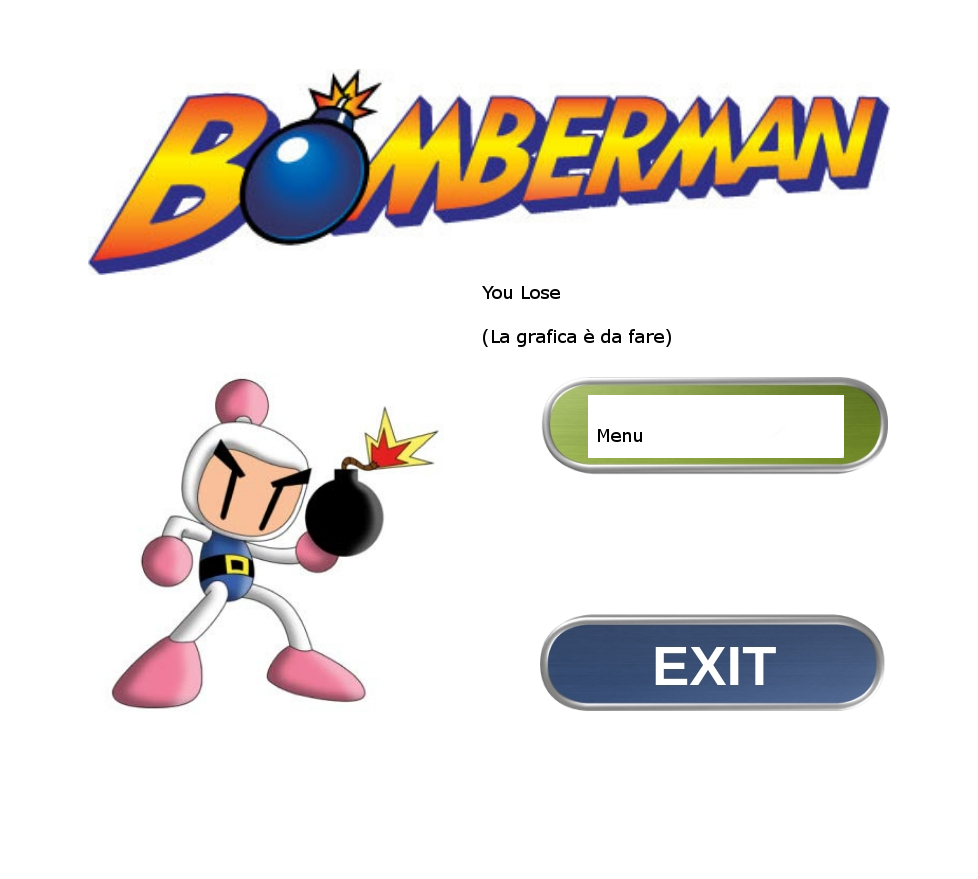
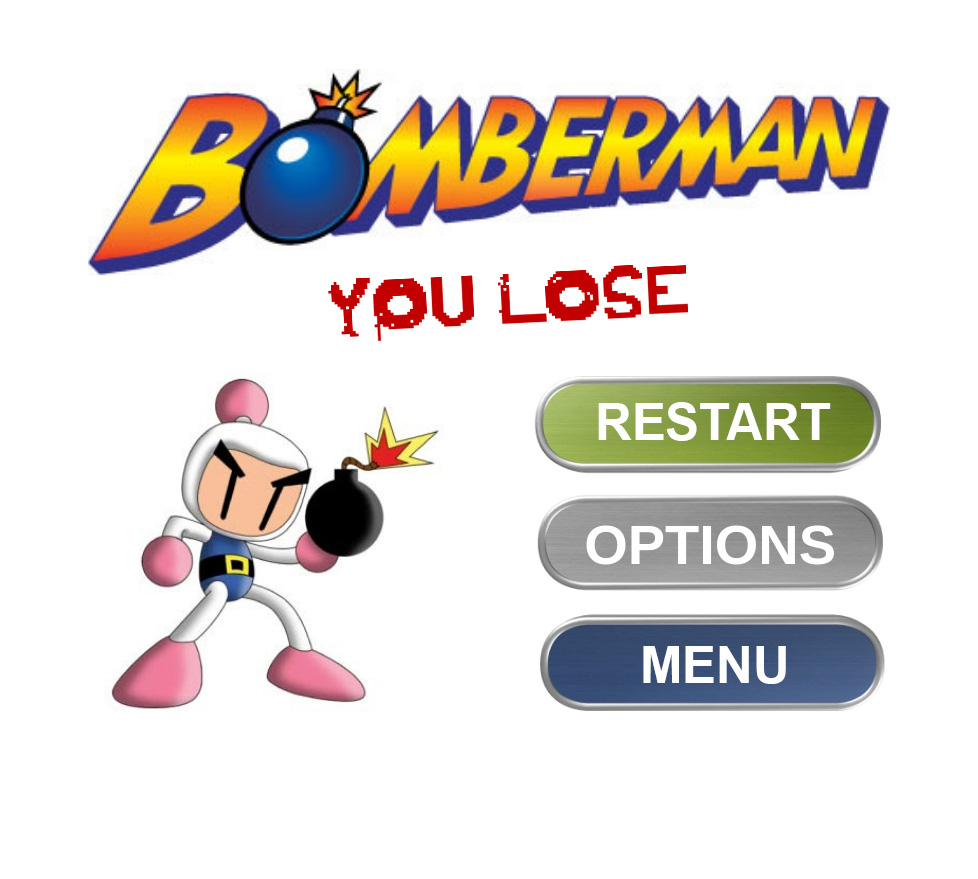
implementata la nuova schermata di vittoria e sconfitta

Changed region(s): [[0.5215, 0.43, 0.9202, 0.6758], [0.3374, 0.2765, 0.7055, 0.3993], [0.6442, 0.7372, 0.8282, 0.7986]]

diff --git a/BomberMan/src/bomberman/graphics/LoseFrame.java b/BomberMan/src/bomberman/graphics/LoseFrame.java
@@ -20,15 +20,15 @@ public class LoseFrame extends javax.swing.JFrame {
         initComponents();
         
         //Rende trasparenti i button
-        btnStart.setCursor(new Cursor(Cursor.HAND_CURSOR));
-        btnStart.setOpaque(false);
-        btnStart.setContentAreaFilled(false);
-        btnStart.setBorderPainted(false);
+        btnRestart.setCursor(new Cursor(Cursor.HAND_CURSOR));
+        btnRestart.setOpaque(false);
+        btnRestart.setContentAreaFilled(false);
+        btnRestart.setBorderPainted(false);
 
-        btnExit.setCursor(new Cursor(Cursor.HAND_CURSOR));
-        btnExit.setOpaque(false);
-        btnExit.setContentAreaFilled(false);
-        btnExit.setBorderPainted(false);
+        btnMenu.setCursor(new Cursor(Cursor.HAND_CURSOR));
+        btnMenu.setOpaque(false);
+        btnMenu.setContentAreaFilled(false);
+        btnMenu.setBorderPainted(false);
         
         pack();
     }
@@ -42,31 +42,31 @@ public class LoseFrame extends javax.swing.JFrame {
     // <editor-fold defaultstate="collapsed" desc="Generated Code">//GEN-BEGIN:initComponents
     private void initComponents() {
 
-        btnStart = new javax.swing.JButton();
-        btnExit = new javax.swing.JButton();
+        btnRestart = new javax.swing.JButton();
+        btnMenu = new javax.swing.JButton();
         jLabel1 = new javax.swing.JLabel();
 
         setDefaultCloseOperation(javax.swing.WindowConstants.EXIT_ON_CLOSE);
         setMinimumSize(new java.awt.Dimension(978, 879));
         getContentPane().setLayout(null);
 
-        btnStart.setCursor(new java.awt.Cursor(java.awt.Cursor.DEFAULT_CURSOR));
-        btnStart.addActionListener(new java.awt.event.ActionListener() {
+        btnRestart.setCursor(new java.awt.Cursor(java.awt.Cursor.DEFAULT_CURSOR));
+        btnRestart.addActionListener(new java.awt.event.ActionListener() {
             public void actionPerformed(java.awt.event.ActionEvent evt) {
-                btnStartActionPerformed(evt);
+                btnRestartActionPerformed(evt);
             }
         });
-        getContentPane().add(btnStart);
-        btnStart.setBounds(540, 380, 350, 90);
+        getContentPane().add(btnRestart);
+        btnRestart.setBounds(540, 380, 350, 90);
 
-        btnExit.setCursor(new java.awt.Cursor(java.awt.Cursor.DEFAULT_CURSOR));
-        btnExit.addActionListener(new java.awt.event.ActionListener() {
+        btnMenu.setCursor(new java.awt.Cursor(java.awt.Cursor.DEFAULT_CURSOR));
+        btnMenu.addActionListener(new java.awt.event.ActionListener() {
             public void actionPerformed(java.awt.event.ActionEvent evt) {
-                btnExitActionPerformed(evt);
+                btnMenuActionPerformed(evt);
             }
         });
-        getContentPane().add(btnExit);
-        btnExit.setBounds(540, 620, 350, 90);
+        getContentPane().add(btnMenu);
+        btnMenu.setBounds(540, 620, 350, 90);
 
         jLabel1.setIcon(new javax.swing.ImageIcon(getClass().getResource("/bomberman/assets/loseFrameBackground.jpg"))); // NOI18N
         getContentPane().add(jLabel1);
@@ -76,14 +76,15 @@ public class LoseFrame extends javax.swing.JFrame {
         setLocationRelativeTo(null);
     }// </editor-fold>//GEN-END:initComponents
 
-    private void btnStartActionPerformed(java.awt.event.ActionEvent evt) {//GEN-FIRST:event_btnStartActionPerformed
+    private void btnRestartActionPerformed(java.awt.event.ActionEvent evt) {//GEN-FIRST:event_btnRestartActionPerformed
+        this.dispose();
+        BomberMan.launchGame();
+    }//GEN-LAST:event_btnRestartActionPerformed
+
+    private void btnMenuActionPerformed(java.awt.event.ActionEvent evt) {//GEN-FIRST:event_btnMenuActionPerformed
         this.dispose();
         BomberMan.launchMenu();
-    }//GEN-LAST:event_btnStartActionPerformed
-
-    private void btnExitActionPerformed(java.awt.event.ActionEvent evt) {//GEN-FIRST:event_btnExitActionPerformed
-        this.dispose();
-    }//GEN-LAST:event_btnExitActionPerformed
+    }//GEN-LAST:event_btnMenuActionPerformed
 
     /**
      * @param args the command line arguments
@@ -116,8 +117,8 @@ public class LoseFrame extends javax.swing.JFrame {
 //    }
 
     // Variables declaration - do not modify//GEN-BEGIN:variables
-    private javax.swing.JButton btnExit;
-    private javax.swing.JButton btnStart;
+    private javax.swing.JButton btnMenu;
+    private javax.swing.JButton btnRestart;
     private javax.swing.JLabel jLabel1;
     // End of variables declaration//GEN-END:variables
 }

diff --git a/BomberMan/src/bomberman/graphics/WinFrame.java b/BomberMan/src/bomberman/graphics/WinFrame.java
@@ -20,15 +20,15 @@ public class WinFrame extends javax.swing.JFrame {
         initComponents();
         
         //Rende trasparenti i button
-        btnStart.setCursor(new Cursor(Cursor.HAND_CURSOR));
-        btnStart.setOpaque(false);
-        btnStart.setContentAreaFilled(false);
-        btnStart.setBorderPainted(false);
+        btnRestart.setCursor(new Cursor(Cursor.HAND_CURSOR));
+        btnRestart.setOpaque(false);
+        btnRestart.setContentAreaFilled(false);
+        btnRestart.setBorderPainted(false);
 
-        btnExit.setCursor(new Cursor(Cursor.HAND_CURSOR));
-        btnExit.setOpaque(false);
-        btnExit.setContentAreaFilled(false);
-        btnExit.setBorderPainted(false);
+        btnMenu.setCursor(new Cursor(Cursor.HAND_CURSOR));
+        btnMenu.setOpaque(false);
+        btnMenu.setContentAreaFilled(false);
+        btnMenu.setBorderPainted(false);
         
         pack();
     }
@@ -42,31 +42,31 @@ public class WinFrame extends javax.swing.JFrame {
     // <editor-fold defaultstate="collapsed" desc="Generated Code">//GEN-BEGIN:initComponents
     private void initComponents() {
 
-        btnStart = new javax.swing.JButton();
-        btnExit = new javax.swing.JButton();
+        btnRestart = new javax.swing.JButton();
+        btnMenu = new javax.swing.JButton();
         jLabel1 = new javax.swing.JLabel();
 
         setDefaultCloseOperation(javax.swing.WindowConstants.EXIT_ON_CLOSE);
         setMinimumSize(new java.awt.Dimension(978, 879));
         getContentPane().setLayout(null);
 
-        btnStart.setCursor(new java.awt.Cursor(java.awt.Cursor.DEFAULT_CURSOR));
-        btnStart.addActionListener(new java.awt.event.ActionListener() {
+        btnRestart.setCursor(new java.awt.Cursor(java.awt.Cursor.DEFAULT_CURSOR));
+        btnRestart.addActionListener(new java.awt.event.ActionListener() {
             public void actionPerformed(java.awt.event.ActionEvent evt) {
-                btnStartActionPerformed(evt);
+                btnRestartActionPerformed(evt);
             }
         });
-        getContentPane().add(btnStart);
-        btnStart.setBounds(540, 380, 350, 90);
+        getContentPane().add(btnRestart);
+        btnRestart.setBounds(540, 380, 350, 90);
 
-        btnExit.setCursor(new java.awt.Cursor(java.awt.Cursor.DEFAULT_CURSOR));
-        btnExit.addActionListener(new java.awt.event.ActionListener() {
+        btnMenu.setCursor(new java.awt.Cursor(java.awt.Cursor.DEFAULT_CURSOR));
+        btnMenu.addActionListener(new java.awt.event.ActionListener() {
             public void actionPerformed(java.awt.event.ActionEvent evt) {
-                btnExitActionPerformed(evt);
+                btnMenuActionPerformed(evt);
             }
         });
-        getContentPane().add(btnExit);
-        btnExit.setBounds(540, 620, 350, 90);
+        getContentPane().add(btnMenu);
+        btnMenu.setBounds(540, 620, 350, 90);
 
         jLabel1.setIcon(new javax.swing.ImageIcon(getClass().getResource("/bomberman/assets/winFrameBackground.jpg"))); // NOI18N
         getContentPane().add(jLabel1);
@@ -76,14 +76,15 @@ public class WinFrame extends javax.swing.JFrame {
         setLocationRelativeTo(null);
     }// </editor-fold>//GEN-END:initComponents
 
-    private void btnStartActionPerformed(java.awt.event.ActionEvent evt) {//GEN-FIRST:event_btnStartActionPerformed
+    private void btnRestartActionPerformed(java.awt.event.ActionEvent evt) {//GEN-FIRST:event_btnRestartActionPerformed
+        this.dispose();
+        BomberMan.launchGame();
+    }//GEN-LAST:event_btnRestartActionPerformed
+
+    private void btnMenuActionPerformed(java.awt.event.ActionEvent evt) {//GEN-FIRST:event_btnMenuActionPerformed
         this.dispose();
         BomberMan.launchMenu();
-    }//GEN-LAST:event_btnStartActionPerformed
-
-    private void btnExitActionPerformed(java.awt.event.ActionEvent evt) {//GEN-FIRST:event_btnExitActionPerformed
-        this.dispose();
-    }//GEN-LAST:event_btnExitActionPerformed
+    }//GEN-LAST:event_btnMenuActionPerformed
 
     /**
      * @param args the command line arguments
@@ -116,8 +117,8 @@ public class WinFrame extends javax.swing.JFrame {
 //    }
 
     // Variables declaration - do not modify//GEN-BEGIN:variables
-    private javax.swing.JButton btnExit;
-    private javax.swing.JButton btnStart;
+    private javax.swing.JButton btnMenu;
+    private javax.swing.JButton btnRestart;
     private javax.swing.JLabel jLabel1;
     // End of variables declaration//GEN-END:variables
 }
